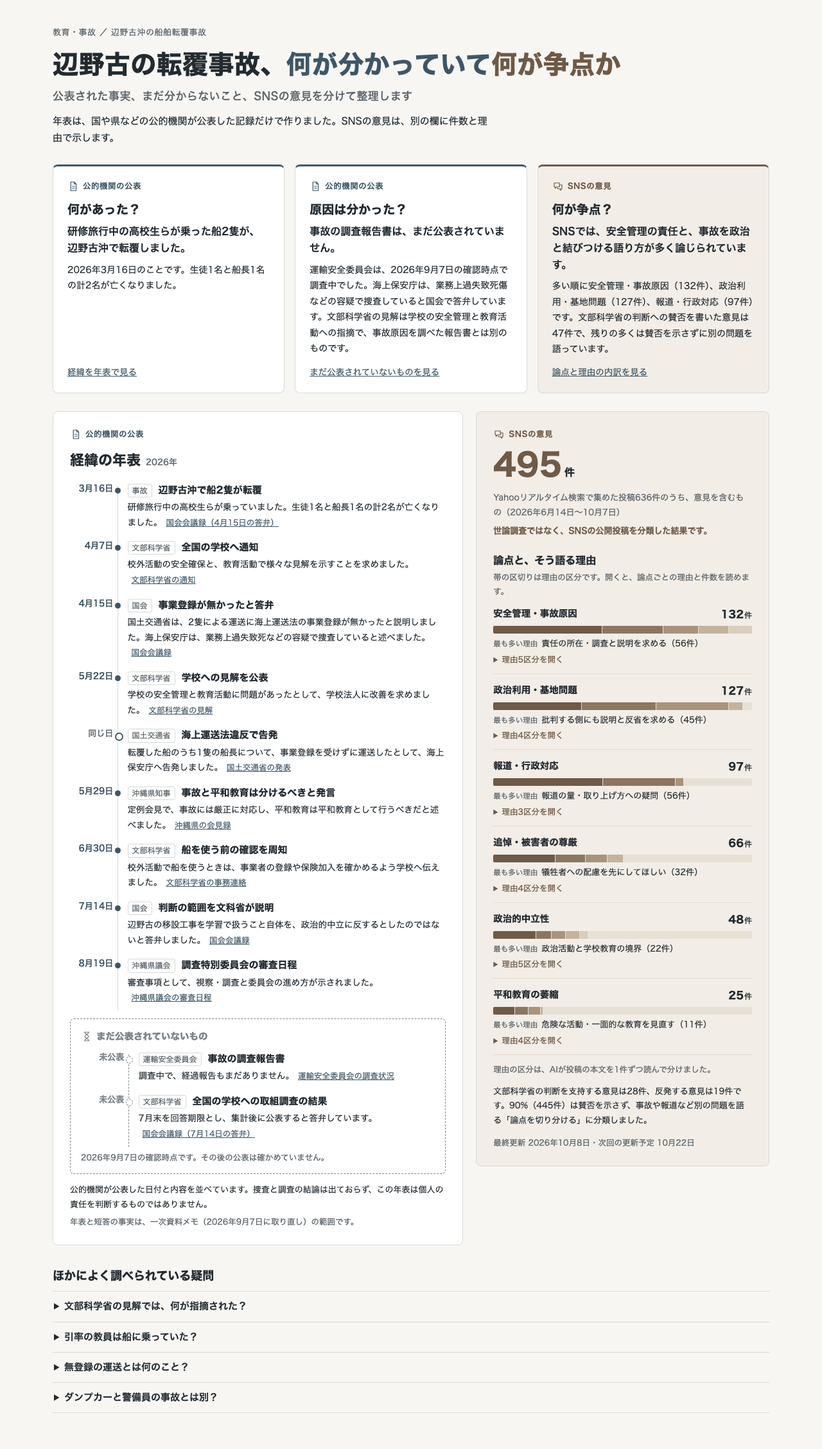
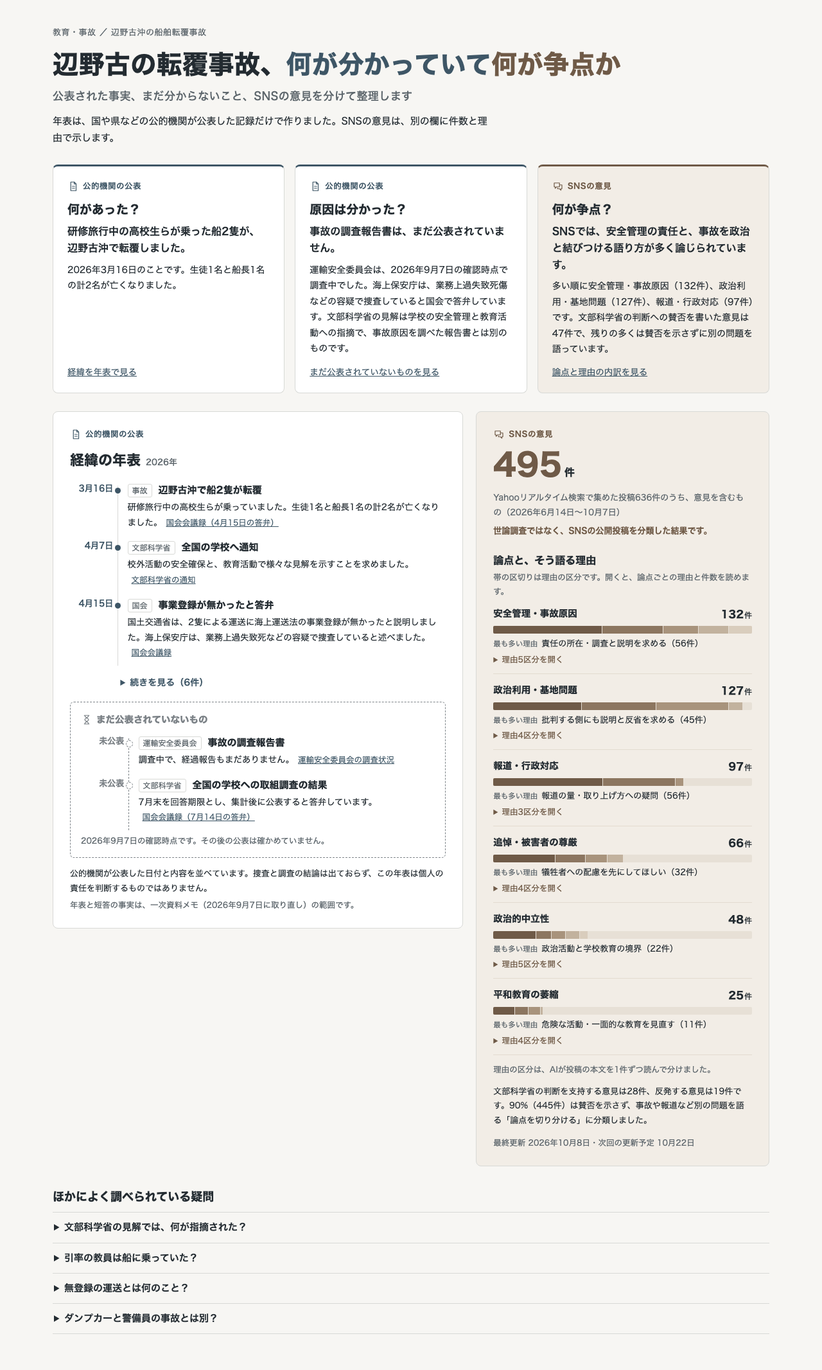
henoko-student-accident: 年表を開閉式に（オーナー指示）

diff --git a/quality/prototypes/henoko-student-accident-opening/index.html b/quality/prototypes/henoko-student-accident-opening/index.html
@@ -14,7 +14,7 @@
 <header class="hop-hero"><p class="hop-crumb">教育・事故 ／ 辺野古沖の船舶転覆事故</p><h1 class="hop-title"><span class="hop-phrase hop-tone--plain">辺野古の転覆事故、</span><span class="hop-phrase hop-tone--fact">何が分かっていて</span><span class="hop-phrase hop-tone--voice">何が争点か</span><span class="hop-sub">公表された事実、まだ分からないこと、SNSの意見を分けて整理します</span></h1><p class="hop-lead">年表は、国や県などの公的機関が公表した記録だけで作りました。SNSの意見は、別の欄に件数と理由で示します。</p></header>
 <section class="hop-answers" aria-label="検索で多い疑問に短く答える"><article class="hop-answer hop-zone--fact"><p class="hop-kind"><svg class="hop-picto hop-picto--fact" aria-hidden="true" viewBox="0 0 24 24" fill="none" stroke="currentColor" stroke-width="1.6" stroke-linecap="round" stroke-linejoin="round"><path d="M7 3h7l4 4v14H7Z"/><path d="M14 3v4h4M10 12h5M10 16h5"/></svg>公的機関の公表</p><h2>何があった？</h2><p class="hop-answer__short">研修旅行中の高校生らが乗った船2隻が、辺野古沖で転覆しました。</p><p class="hop-answer__body">2026年3月16日のことです。生徒1名と船長1名の計2名が亡くなりました。</p><a class="hop-more" href="#hop-timeline">経緯を年表で見る</a></article><article class="hop-answer hop-zone--fact"><p class="hop-kind"><svg class="hop-picto hop-picto--fact" aria-hidden="true" viewBox="0 0 24 24" fill="none" stroke="currentColor" stroke-width="1.6" stroke-linecap="round" stroke-linejoin="round"><path d="M7 3h7l4 4v14H7Z"/><path d="M14 3v4h4M10 12h5M10 16h5"/></svg>公的機関の公表</p><h2>原因は分かった？</h2><p class="hop-answer__short">事故の調査報告書は、まだ公表されていません。</p><p class="hop-answer__body">運輸安全委員会は、2026年9月7日の確認時点で調査中でした。海上保安庁は、業務上過失致死傷などの容疑で捜査していると国会で答弁しています。文部科学省の見解は学校の安全管理と教育活動への指摘で、事故原因を調べた報告書とは別のものです。</p><a class="hop-more" href="#hop-pending">まだ公表されていないものを見る</a></article><article class="hop-answer hop-zone--voice"><p class="hop-kind"><svg class="hop-picto hop-picto--voice" aria-hidden="true" viewBox="0 0 24 24" fill="none" stroke="currentColor" stroke-width="1.6" stroke-linecap="round" stroke-linejoin="round"><path d="M4 5h11v8H9l-3 3v-3H4Z"/><path d="M15 9h5v8h-2v3l-3-3h-4v-2"/></svg>SNSの意見</p><h2>何が争点？</h2><p class="hop-answer__short">SNSでは、安全管理の責任と、事故を政治と結びつける語り方が多く論じられています。</p><p class="hop-answer__body">多い順に安全管理・事故原因（132件）、政治利用・基地問題（127件）、報道・行政対応（97件）です。文部科学省の判断への賛否を書いた意見は47件で、残りの多くは賛否を示さずに別の問題を語っています。</p><a class="hop-more" href="#hop-count">論点と理由の内訳を見る</a></article></section>
 <div class="hop-split">
-<section class="hop-timeline hop-zone--fact" id="hop-timeline" aria-labelledby="hop-timeline-title"><header class="hop-panel__head"><p class="hop-kind"><svg class="hop-picto hop-picto--fact" aria-hidden="true" viewBox="0 0 24 24" fill="none" stroke="currentColor" stroke-width="1.6" stroke-linecap="round" stroke-linejoin="round"><path d="M7 3h7l4 4v14H7Z"/><path d="M14 3v4h4M10 12h5M10 16h5"/></svg>公的機関の公表</p><h2 id="hop-timeline-title">経緯の年表<small>2026年</small></h2></header><ol class="hop-events"><li class="hop-event"><time datetime="2026-03-16">3月16日</time><div class="hop-event__body"><p class="hop-event__head"><span class="hop-actor">事故</span><strong>辺野古沖で船2隻が転覆</strong></p><p class="hop-event__text">研修旅行中の高校生らが乗っていました。生徒1名と船長1名の計2名が亡くなりました。<a class="hop-src" href="https://kokkai.ndl.go.jp/txt/122104319X00520260415/14" target="_blank" rel="noopener noreferrer">国会会議録（4月15日の答弁）</a></p></div></li><li class="hop-event"><time datetime="2026-04-07">4月7日</time><div class="hop-event__body"><p class="hop-event__head"><span class="hop-actor">文部科学省</span><strong>全国の学校へ通知</strong></p><p class="hop-event__text">校外活動の安全確保と、教育活動で様々な見解を示すことを求めました。<a class="hop-src" href="https://www.mext.go.jp/a_menu/kenko/anzen/1417343_00052.htm" target="_blank" rel="noopener noreferrer">文部科学省の通知</a></p></div></li><li class="hop-event"><time datetime="2026-04-15">4月15日</time><div class="hop-event__body"><p class="hop-event__head"><span class="hop-actor">国会</span><strong>事業登録が無かったと答弁</strong></p><p class="hop-event__text">国土交通省は、2隻による運送に海上運送法の事業登録が無かったと説明しました。海上保安庁は、業務上過失致死などの容疑で捜査していると述べました。<a class="hop-src" href="https://kokkai.ndl.go.jp/txt/122104319X00520260415/15" target="_blank" rel="noopener noreferrer">国会会議録</a></p></div></li><li class="hop-event"><time datetime="2026-05-22">5月22日</time><div class="hop-event__body"><p class="hop-event__head"><span class="hop-actor">文部科学省</span><strong>学校への見解を公表</strong></p><p class="hop-event__text">学校の安全管理と教育活動に問題があったとして、学校法人に改善を求めました。<a class="hop-src" href="https://www.mext.go.jp/a_menu/shotou/seitoshidou/1302902_00005.htm" target="_blank" rel="noopener noreferrer">文部科学省の見解</a></p></div></li><li class="hop-event hop-event--same"><time datetime="2026-05-22">同じ日</time><div class="hop-event__body"><p class="hop-event__head"><span class="hop-actor">国土交通省</span><strong>海上運送法違反で告発</strong></p><p class="hop-event__text">転覆した船のうち1隻の船長について、事業登録を受けずに運送したとして、海上保安庁へ告発しました。<a class="hop-src" href="https://www.mlit.go.jp/report/press/kaiji03_hh_000224.html" target="_blank" rel="noopener noreferrer">国土交通省の発表</a></p></div></li><li class="hop-event"><time datetime="2026-05-29">5月29日</time><div class="hop-event__body"><p class="hop-event__head"><span class="hop-actor">沖縄県知事</span><strong>事故と平和教育は分けるべきと発言</strong></p><p class="hop-event__text">定例会見で、事故には厳正に対応し、平和教育は平和教育として行うべきだと述べました。<a class="hop-src" href="https://www.pref.okinawa.lg.jp/_res/projects/default_project/_page_/001/039/477/260529_kaiken.pdf" target="_blank" rel="noopener noreferrer">沖縄県の会見録</a></p></div></li><li class="hop-event"><time datetime="2026-06-30">6月30日</time><div class="hop-event__body"><p class="hop-event__head"><span class="hop-actor">文部科学省</span><strong>船を使う前の確認を周知</strong></p><p class="hop-event__text">校外活動で船を使うときは、事業者の登録や保険加入を確かめるよう学校へ伝えました。<a class="hop-src" href="https://www.mext.go.jp/a_menu/kenko/anzen/1417343_00062.htm" target="_blank" rel="noopener noreferrer">文部科学省の事務連絡</a></p></div></li><li class="hop-event"><time datetime="2026-07-14">7月14日</time><div class="hop-event__body"><p class="hop-event__head"><span class="hop-actor">国会</span><strong>判断の範囲を文科省が説明</strong></p><p class="hop-event__text">辺野古の移設工事を学習で扱うこと自体を、政治的中立に反するとしたのではないと答弁しました。<a class="hop-src" href="https://kokkai.ndl.go.jp/txt/122114601X01320260714/115" target="_blank" rel="noopener noreferrer">国会会議録</a></p></div></li><li class="hop-event"><time datetime="2026-08-19">8月19日</time><div class="hop-event__body"><p class="hop-event__head"><span class="hop-actor">沖縄県議会</span><strong>調査特別委員会の審査日程</strong></p><p class="hop-event__text">審査事項として、視察・調査と委員会の進め方が示されました。<a class="hop-src" href="https://www.pref.okinawa.lg.jp/_res/projects/default_project/_page_/001/039/367/r80819henokonittei.pdf" target="_blank" rel="noopener noreferrer">沖縄県議会の審査日程</a></p></div></li></ol><div class="hop-pending" id="hop-pending"><h3><svg class="hop-picto hop-picto--pending" aria-hidden="true" viewBox="0 0 24 24" fill="none" stroke="currentColor" stroke-width="1.6" stroke-linecap="round" stroke-linejoin="round"><path d="M7 3h10M7 21h10M8 3c0 5 8 6 8 9s-8 4-8 9M16 3c0 5-8 6-8 9s8 4 8 9"/></svg>まだ公表されていないもの</h3><ol class="hop-events"><li class="hop-event hop-event--pending"><span class="hop-when-pending">未公表</span><div class="hop-event__body"><p class="hop-event__head"><span class="hop-actor">運輸安全委員会</span><strong>事故の調査報告書</strong></p><p class="hop-event__text">調査中で、経過報告もまだありません。<a class="hop-src" href="https://jtsb.mlit.go.jp/jtsb/ship/detail2.php?id=17113" target="_blank" rel="noopener noreferrer">運輸安全委員会の調査状況</a></p></div></li><li class="hop-event hop-event--pending"><span class="hop-when-pending">未公表</span><div class="hop-event__body"><p class="hop-event__head"><span class="hop-actor">文部科学省</span><strong>全国の学校への取組調査の結果</strong></p><p class="hop-event__text">7月末を回答期限とし、集計後に公表すると答弁しています。<a class="hop-src" href="https://kokkai.ndl.go.jp/txt/122115104X01220260714/51" target="_blank" rel="noopener noreferrer">国会会議録（7月14日の答弁）</a></p></div></li></ol><p class="hop-pending__note">2026年9月7日の確認時点です。その後の公表は確かめていません。</p></div><p class="hop-panel__note">公的機関が公表した日付と内容を並べています。捜査と調査の結論は出ておらず、この年表は個人の責任を判断するものではありません。</p><p class="hop-checked">年表と短答の事実は、一次資料メモ（2026年9月7日に取り直し）の範囲です。</p></section>
+<section class="hop-timeline hop-zone--fact" id="hop-timeline" aria-labelledby="hop-timeline-title"><header class="hop-panel__head"><p class="hop-kind"><svg class="hop-picto hop-picto--fact" aria-hidden="true" viewBox="0 0 24 24" fill="none" stroke="currentColor" stroke-width="1.6" stroke-linecap="round" stroke-linejoin="round"><path d="M7 3h7l4 4v14H7Z"/><path d="M14 3v4h4M10 12h5M10 16h5"/></svg>公的機関の公表</p><h2 id="hop-timeline-title">経緯の年表<small>2026年</small></h2></header><ol class="hop-events"><li class="hop-event"><time datetime="2026-03-16">3月16日</time><div class="hop-event__body"><p class="hop-event__head"><span class="hop-actor">事故</span><strong>辺野古沖で船2隻が転覆</strong></p><p class="hop-event__text">研修旅行中の高校生らが乗っていました。生徒1名と船長1名の計2名が亡くなりました。<a class="hop-src" href="https://kokkai.ndl.go.jp/txt/122104319X00520260415/14" target="_blank" rel="noopener noreferrer">国会会議録（4月15日の答弁）</a></p></div></li><li class="hop-event"><time datetime="2026-04-07">4月7日</time><div class="hop-event__body"><p class="hop-event__head"><span class="hop-actor">文部科学省</span><strong>全国の学校へ通知</strong></p><p class="hop-event__text">校外活動の安全確保と、教育活動で様々な見解を示すことを求めました。<a class="hop-src" href="https://www.mext.go.jp/a_menu/kenko/anzen/1417343_00052.htm" target="_blank" rel="noopener noreferrer">文部科学省の通知</a></p></div></li><li class="hop-event"><time datetime="2026-04-15">4月15日</time><div class="hop-event__body"><p class="hop-event__head"><span class="hop-actor">国会</span><strong>事業登録が無かったと答弁</strong></p><p class="hop-event__text">国土交通省は、2隻による運送に海上運送法の事業登録が無かったと説明しました。海上保安庁は、業務上過失致死などの容疑で捜査していると述べました。<a class="hop-src" href="https://kokkai.ndl.go.jp/txt/122104319X00520260415/15" target="_blank" rel="noopener noreferrer">国会会議録</a></p></div></li></ol><details class="hop-more-events"><summary>続きを見る（6件）</summary><ol class="hop-events hop-events--rest"><li class="hop-event"><time datetime="2026-05-22">5月22日</time><div class="hop-event__body"><p class="hop-event__head"><span class="hop-actor">文部科学省</span><strong>学校への見解を公表</strong></p><p class="hop-event__text">学校の安全管理と教育活動に問題があったとして、学校法人に改善を求めました。<a class="hop-src" href="https://www.mext.go.jp/a_menu/shotou/seitoshidou/1302902_00005.htm" target="_blank" rel="noopener noreferrer">文部科学省の見解</a></p></div></li><li class="hop-event hop-event--same"><time datetime="2026-05-22">同じ日</time><div class="hop-event__body"><p class="hop-event__head"><span class="hop-actor">国土交通省</span><strong>海上運送法違反で告発</strong></p><p class="hop-event__text">転覆した船のうち1隻の船長について、事業登録を受けずに運送したとして、海上保安庁へ告発しました。<a class="hop-src" href="https://www.mlit.go.jp/report/press/kaiji03_hh_000224.html" target="_blank" rel="noopener noreferrer">国土交通省の発表</a></p></div></li><li class="hop-event"><time datetime="2026-05-29">5月29日</time><div class="hop-event__body"><p class="hop-event__head"><span class="hop-actor">沖縄県知事</span><strong>事故と平和教育は分けるべきと発言</strong></p><p class="hop-event__text">定例会見で、事故には厳正に対応し、平和教育は平和教育として行うべきだと述べました。<a class="hop-src" href="https://www.pref.okinawa.lg.jp/_res/projects/default_project/_page_/001/039/477/260529_kaiken.pdf" target="_blank" rel="noopener noreferrer">沖縄県の会見録</a></p></div></li><li class="hop-event"><time datetime="2026-06-30">6月30日</time><div class="hop-event__body"><p class="hop-event__head"><span class="hop-actor">文部科学省</span><strong>船を使う前の確認を周知</strong></p><p class="hop-event__text">校外活動で船を使うときは、事業者の登録や保険加入を確かめるよう学校へ伝えました。<a class="hop-src" href="https://www.mext.go.jp/a_menu/kenko/anzen/1417343_00062.htm" target="_blank" rel="noopener noreferrer">文部科学省の事務連絡</a></p></div></li><li class="hop-event"><time datetime="2026-07-14">7月14日</time><div class="hop-event__body"><p class="hop-event__head"><span class="hop-actor">国会</span><strong>判断の範囲を文科省が説明</strong></p><p class="hop-event__text">辺野古の移設工事を学習で扱うこと自体を、政治的中立に反するとしたのではないと答弁しました。<a class="hop-src" href="https://kokkai.ndl.go.jp/txt/122114601X01320260714/115" target="_blank" rel="noopener noreferrer">国会会議録</a></p></div></li><li class="hop-event"><time datetime="2026-08-19">8月19日</time><div class="hop-event__body"><p class="hop-event__head"><span class="hop-actor">沖縄県議会</span><strong>調査特別委員会の審査日程</strong></p><p class="hop-event__text">審査事項として、視察・調査と委員会の進め方が示されました。<a class="hop-src" href="https://www.pref.okinawa.lg.jp/_res/projects/default_project/_page_/001/039/367/r80819henokonittei.pdf" target="_blank" rel="noopener noreferrer">沖縄県議会の審査日程</a></p></div></li></ol></details><div class="hop-pending" id="hop-pending"><h3><svg class="hop-picto hop-picto--pending" aria-hidden="true" viewBox="0 0 24 24" fill="none" stroke="currentColor" stroke-width="1.6" stroke-linecap="round" stroke-linejoin="round"><path d="M7 3h10M7 21h10M8 3c0 5 8 6 8 9s-8 4-8 9M16 3c0 5-8 6-8 9s8 4 8 9"/></svg>まだ公表されていないもの</h3><ol class="hop-events"><li class="hop-event hop-event--pending"><span class="hop-when-pending">未公表</span><div class="hop-event__body"><p class="hop-event__head"><span class="hop-actor">運輸安全委員会</span><strong>事故の調査報告書</strong></p><p class="hop-event__text">調査中で、経過報告もまだありません。<a class="hop-src" href="https://jtsb.mlit.go.jp/jtsb/ship/detail2.php?id=17113" target="_blank" rel="noopener noreferrer">運輸安全委員会の調査状況</a></p></div></li><li class="hop-event hop-event--pending"><span class="hop-when-pending">未公表</span><div class="hop-event__body"><p class="hop-event__head"><span class="hop-actor">文部科学省</span><strong>全国の学校への取組調査の結果</strong></p><p class="hop-event__text">7月末を回答期限とし、集計後に公表すると答弁しています。<a class="hop-src" href="https://kokkai.ndl.go.jp/txt/122115104X01220260714/51" target="_blank" rel="noopener noreferrer">国会会議録（7月14日の答弁）</a></p></div></li></ol><p class="hop-pending__note">2026年9月7日の確認時点です。その後の公表は確かめていません。</p></div><p class="hop-panel__note">公的機関が公表した日付と内容を並べています。捜査と調査の結論は出ておらず、この年表は個人の責任を判断するものではありません。</p><p class="hop-checked">年表と短答の事実は、一次資料メモ（2026年9月7日に取り直し）の範囲です。</p></section>
 <section class="hop-count hop-zone--voice" id="hop-count" aria-labelledby="hop-count-title"><header class="hop-panel__head"><p class="hop-kind"><svg class="hop-picto hop-picto--voice" aria-hidden="true" viewBox="0 0 24 24" fill="none" stroke="currentColor" stroke-width="1.6" stroke-linecap="round" stroke-linejoin="round"><path d="M4 5h11v8H9l-3 3v-3H4Z"/><path d="M15 9h5v8h-2v3l-3-3h-4v-2"/></svg>SNSの意見</p><h2 id="hop-count-title" class="hop-count__num"><strong>495</strong><span>件</span></h2></header><p class="hop-count__caption">Yahooリアルタイム検索で集めた投稿636件のうち、意見を含むもの（2026年6月14日〜10月7日）</p><p class="hop-count__poll">世論調査ではなく、SNSの公開投稿を分類した結果です。</p><h3 class="hop-count__issues-title">論点と、そう語る理由</h3><p class="hop-count__hint">帯の区切りは理由の区分です。開くと、論点ごとの理由と件数を読めます。</p><ol class="hop-issues"><li class="hop-issue"><p class="hop-issue__head"><strong>安全管理・事故原因</strong><b>132<small>件</small></b></p><div class="hop-issue__track" aria-hidden="true"><div class="hop-issue__bar" style="--w:100.00%"><span style="--w:42.42%;--c:#6f5a47"></span><span style="--w:23.48%;--c:#8c7660"></span><span style="--w:13.64%;--c:#a8937c"></span><span style="--w:11.36%;--c:#c2b29e"></span><span style="--w:9.09%;--c:#d9cdbd"></span></div></div><p class="hop-issue__top"><span>最も多い理由</span>責任の所在・調査と説明を求める（56件）</p><details class="hop-reasons"><summary>理由5区分を開く</summary><ul><li><span class="hop-swatch" style="--c:#6f5a47" aria-hidden="true"></span>責任の所在・調査と説明を求める<b>56件</b></li><li><span class="hop-swatch" style="--c:#8c7660" aria-hidden="true"></span>学校の計画・引率・生徒への説明<b>31件</b></li><li><span class="hop-swatch" style="--c:#a8937c" aria-hidden="true"></span>船の選定・運航判断・契約<b>18件</b></li><li><span class="hop-swatch" style="--c:#c2b29e" aria-hidden="true"></span>再発防止と安全確認を優先する<b>15件</b></li><li><span class="hop-swatch" style="--c:#d9cdbd" aria-hidden="true"></span>活動の目的より安全を優先してほしい<b>12件</b></li></ul></details></li><li class="hop-issue"><p class="hop-issue__head"><strong>政治利用・基地問題</strong><b>127<small>件</small></b></p><div class="hop-issue__track" aria-hidden="true"><div class="hop-issue__bar" style="--w:96.21%"><span style="--w:35.43%;--c:#6f5a47"></span><span style="--w:29.92%;--c:#8c7660"></span><span style="--w:29.13%;--c:#a8937c"></span><span style="--w:5.51%;--c:#c2b29e"></span></div></div><p class="hop-issue__top"><span>最も多い理由</span>批判する側にも説明と反省を求める（45件）</p><details class="hop-reasons"><summary>理由4区分を開く</summary><ul><li><span class="hop-swatch" style="--c:#6f5a47" aria-hidden="true"></span>批判する側にも説明と反省を求める<b>45件</b></li><li><span class="hop-swatch" style="--c:#8c7660" aria-hidden="true"></span>事故対応を選挙や政治家の評価につなげる<b>38件</b></li><li><span class="hop-swatch" style="--c:#a8937c" aria-hidden="true"></span>活動団体・政党・教育機関への批判と関係<b>37件</b></li><li><span class="hop-swatch" style="--c:#c2b29e" aria-hidden="true"></span>基地政策・反対運動の是非<b>7件</b></li></ul></details></li><li class="hop-issue"><p class="hop-issue__head"><strong>報道・行政対応</strong><b>97<small>件</small></b></p><div class="hop-issue__track" aria-hidden="true"><div class="hop-issue__bar" style="--w:73.48%"><span style="--w:57.73%;--c:#6f5a47"></span><span style="--w:38.14%;--c:#8c7660"></span><span style="--w:4.12%;--c:#a8937c"></span></div></div><p class="hop-issue__top"><span>最も多い理由</span>報道の量・取り上げ方への疑問（56件）</p><details class="hop-reasons"><summary>理由3区分を開く</summary><ul><li><span class="hop-swatch" style="--c:#6f5a47" aria-hidden="true"></span>報道の量・取り上げ方への疑問<b>56件</b></li><li><span class="hop-swatch" style="--c:#8c7660" aria-hidden="true"></span>行政・政党の説明と調査<b>37件</b></li><li><span class="hop-swatch" style="--c:#a8937c" aria-hidden="true"></span>会見や遺族の記録への受け止め<b>4件</b></li></ul></details></li><li class="hop-issue"><p class="hop-issue__head"><strong>追悼・被害者の尊厳</strong><b>66<small>件</small></b></p><div class="hop-issue__track" aria-hidden="true"><div class="hop-issue__bar" style="--w:50.00%"><span style="--w:48.48%;--c:#6f5a47"></span><span style="--w:22.73%;--c:#8c7660"></span><span style="--w:16.67%;--c:#a8937c"></span><span style="--w:12.12%;--c:#c2b29e"></span></div></div><p class="hop-issue__top"><span>最も多い理由</span>犠牲者への配慮を先にしてほしい（32件）</p><details class="hop-reasons"><summary>理由4区分を開く</summary><ul><li><span class="hop-swatch" style="--c:#6f5a47" aria-hidden="true"></span>犠牲者への配慮を先にしてほしい<b>32件</b></li><li><span class="hop-swatch" style="--c:#8c7660" aria-hidden="true"></span>追悼や謝罪の時期・場所・対応<b>15件</b></li><li><span class="hop-swatch" style="--c:#a8937c" aria-hidden="true"></span>慰霊の場と政治的抗議を分ける<b>11件</b></li><li><span class="hop-swatch" style="--c:#c2b29e" aria-hidden="true"></span>命を悼み、遺族や生徒の立場を考える<b>8件</b></li></ul></details></li><li class="hop-issue"><p class="hop-issue__head"><strong>政治的中立性</strong><b>48<small>件</small></b></p><div class="hop-issue__track" aria-hidden="true"><div class="hop-issue__bar" style="--w:36.36%"><span style="--w:45.83%;--c:#6f5a47"></span><span style="--w:16.67%;--c:#8c7660"></span><span style="--w:14.58%;--c:#a8937c"></span><span style="--w:14.58%;--c:#c2b29e"></span><span style="--w:8.33%;--c:#d9cdbd"></span></div></div><p class="hop-issue__top"><span>最も多い理由</span>政治活動と学校教育の境界（22件）</p><details class="hop-reasons"><summary>理由5区分を開く</summary><ul><li><span class="hop-swatch" style="--c:#6f5a47" aria-hidden="true"></span>政治活動と学校教育の境界<b>22件</b></li><li><span class="hop-swatch" style="--c:#8c7660" aria-hidden="true"></span>比較する場面でも同じ基準を求める<b>8件</b></li><li><span class="hop-swatch" style="--c:#a8937c" aria-hidden="true"></span>教組・宗教団体と教育の関係<b>7件</b></li><li><span class="hop-swatch" style="--c:#c2b29e" aria-hidden="true"></span>教育論の前に学校と運動の責任を問う<b>7件</b></li><li><span class="hop-swatch" style="--c:#d9cdbd" aria-hidden="true"></span>国の教育内容への介入を疑問視する<b>4件</b></li></ul></details></li><li class="hop-issue"><p class="hop-issue__head"><strong>平和教育の萎縮</strong><b>25<small>件</small></b></p><div class="hop-issue__track" aria-hidden="true"><div class="hop-issue__bar" style="--w:18.94%"><span style="--w:44.00%;--c:#6f5a47"></span><span style="--w:28.00%;--c:#8c7660"></span><span style="--w:24.00%;--c:#a8937c"></span><span style="--w:4.00%;--c:#c2b29e"></span></div></div><p class="hop-issue__top"><span>最も多い理由</span>危険な活動・一面的な教育を見直す（11件）</p><details class="hop-reasons"><summary>理由4区分を開く</summary><ul><li><span class="hop-swatch" style="--c:#6f5a47" aria-hidden="true"></span>危険な活動・一面的な教育を見直す<b>11件</b></li><li><span class="hop-swatch" style="--c:#8c7660" aria-hidden="true"></span>学ぶ機会・権利と生徒の自主性<b>7件</b></li><li><span class="hop-swatch" style="--c:#a8937c" aria-hidden="true"></span>教育の自由と国家の介入を考える<b>6件</b></li><li><span class="hop-swatch" style="--c:#c2b29e" aria-hidden="true"></span>政治家に教育のあり方を問う<b>1件</b></li></ul></details></li></ol><p class="hop-count__note">理由の区分は、AIが投稿の本文を1件ずつ読んで分けました。</p><p class="hop-count__stance">文部科学省の判断を支持する意見は28件、反発する意見は19件です。90%（445件）は賛否を示さず、事故や報道など別の問題を語る「論点を切り分ける」に分類しました。</p><p class="hop-count__updated">最終更新 2026年10月8日・次回の更新予定 10月22日</p></section>
 </div>
 <section class="hop-faq" aria-labelledby="hop-faq-title"><h2 id="hop-faq-title">ほかによく調べられている疑問</h2><details class="hop-faq__item"><summary>文部科学省の見解では、何が指摘された？</summary><p>事前の下見をしていなかったこと、当日の波浪注意報を確認していなかったことなど、学校の安全管理が指摘されました。個人の刑事責任を判断したものではありません。<a class="hop-src" href="https://www.mext.go.jp/a_menu/shotou/seitoshidou/1302902_00005.htm" target="_blank" rel="noopener noreferrer">文部科学省の見解</a></p></details><details class="hop-faq__item"><summary>引率の教員は船に乗っていた？</summary><p>文部科学省の見解には、転覆時に引率教員は同行していなかったと書かれています。2隻の船に対し、配置された引率教員は1名でした。<a class="hop-src" href="https://www.mext.go.jp/a_menu/shotou/seitoshidou/1302902_00005.htm" target="_blank" rel="noopener noreferrer">文部科学省の見解</a></p></details><details class="hop-faq__item"><summary>無登録の運送とは何のこと？</summary><p>人を運ぶ事業として行う場合は、海上運送法の事業登録が必要です。国土交通省は、学校の依頼で繰り返し生徒らを運び、謝礼を受けていたことから、登録を受けずに運送したと判断しました。事故原因の認定とは別の手続きです。<a class="hop-src" href="https://www.mlit.go.jp/report/press/kaiji03_hh_000224.html" target="_blank" rel="noopener noreferrer">国土交通省の発表</a></p></details><details class="hop-faq__item"><summary>ダンプカーと警備員の事故とは別？</summary><p>別の事故です。このページは2026年3月の辺野古沖の船舶転覆事故を扱い、2024年に安和桟橋付近で起きた事故とは混同しません。</p></details></section>

diff --git a/quality/prototypes/henoko-student-accident-opening/opening-fragment.html b/quality/prototypes/henoko-student-accident-opening/opening-fragment.html
@@ -3,7 +3,7 @@
 <header class="hop-hero"><p class="hop-crumb">教育・事故 ／ 辺野古沖の船舶転覆事故</p><h1 class="hop-title"><span class="hop-phrase hop-tone--plain">辺野古の転覆事故、</span><span class="hop-phrase hop-tone--fact">何が分かっていて</span><span class="hop-phrase hop-tone--voice">何が争点か</span><span class="hop-sub">公表された事実、まだ分からないこと、SNSの意見を分けて整理します</span></h1><p class="hop-lead">年表は、国や県などの公的機関が公表した記録だけで作りました。SNSの意見は、別の欄に件数と理由で示します。</p></header>
 <section class="hop-answers" aria-label="検索で多い疑問に短く答える"><article class="hop-answer hop-zone--fact"><p class="hop-kind"><svg class="hop-picto hop-picto--fact" aria-hidden="true" viewBox="0 0 24 24" fill="none" stroke="currentColor" stroke-width="1.6" stroke-linecap="round" stroke-linejoin="round"><path d="M7 3h7l4 4v14H7Z"/><path d="M14 3v4h4M10 12h5M10 16h5"/></svg>公的機関の公表</p><h2>何があった？</h2><p class="hop-answer__short">研修旅行中の高校生らが乗った船2隻が、辺野古沖で転覆しました。</p><p class="hop-answer__body">2026年3月16日のことです。生徒1名と船長1名の計2名が亡くなりました。</p><a class="hop-more" href="#hop-timeline">経緯を年表で見る</a></article><article class="hop-answer hop-zone--fact"><p class="hop-kind"><svg class="hop-picto hop-picto--fact" aria-hidden="true" viewBox="0 0 24 24" fill="none" stroke="currentColor" stroke-width="1.6" stroke-linecap="round" stroke-linejoin="round"><path d="M7 3h7l4 4v14H7Z"/><path d="M14 3v4h4M10 12h5M10 16h5"/></svg>公的機関の公表</p><h2>原因は分かった？</h2><p class="hop-answer__short">事故の調査報告書は、まだ公表されていません。</p><p class="hop-answer__body">運輸安全委員会は、2026年9月7日の確認時点で調査中でした。海上保安庁は、業務上過失致死傷などの容疑で捜査していると国会で答弁しています。文部科学省の見解は学校の安全管理と教育活動への指摘で、事故原因を調べた報告書とは別のものです。</p><a class="hop-more" href="#hop-pending">まだ公表されていないものを見る</a></article><article class="hop-answer hop-zone--voice"><p class="hop-kind"><svg class="hop-picto hop-picto--voice" aria-hidden="true" viewBox="0 0 24 24" fill="none" stroke="currentColor" stroke-width="1.6" stroke-linecap="round" stroke-linejoin="round"><path d="M4 5h11v8H9l-3 3v-3H4Z"/><path d="M15 9h5v8h-2v3l-3-3h-4v-2"/></svg>SNSの意見</p><h2>何が争点？</h2><p class="hop-answer__short">SNSでは、安全管理の責任と、事故を政治と結びつける語り方が多く論じられています。</p><p class="hop-answer__body">多い順に安全管理・事故原因（132件）、政治利用・基地問題（127件）、報道・行政対応（97件）です。文部科学省の判断への賛否を書いた意見は47件で、残りの多くは賛否を示さずに別の問題を語っています。</p><a class="hop-more" href="#hop-count">論点と理由の内訳を見る</a></article></section>
 <div class="hop-split">
-<section class="hop-timeline hop-zone--fact" id="hop-timeline" aria-labelledby="hop-timeline-title"><header class="hop-panel__head"><p class="hop-kind"><svg class="hop-picto hop-picto--fact" aria-hidden="true" viewBox="0 0 24 24" fill="none" stroke="currentColor" stroke-width="1.6" stroke-linecap="round" stroke-linejoin="round"><path d="M7 3h7l4 4v14H7Z"/><path d="M14 3v4h4M10 12h5M10 16h5"/></svg>公的機関の公表</p><h2 id="hop-timeline-title">経緯の年表<small>2026年</small></h2></header><ol class="hop-events"><li class="hop-event"><time datetime="2026-03-16">3月16日</time><div class="hop-event__body"><p class="hop-event__head"><span class="hop-actor">事故</span><strong>辺野古沖で船2隻が転覆</strong></p><p class="hop-event__text">研修旅行中の高校生らが乗っていました。生徒1名と船長1名の計2名が亡くなりました。<a class="hop-src" href="https://kokkai.ndl.go.jp/txt/122104319X00520260415/14" target="_blank" rel="noopener noreferrer">国会会議録（4月15日の答弁）</a></p></div></li><li class="hop-event"><time datetime="2026-04-07">4月7日</time><div class="hop-event__body"><p class="hop-event__head"><span class="hop-actor">文部科学省</span><strong>全国の学校へ通知</strong></p><p class="hop-event__text">校外活動の安全確保と、教育活動で様々な見解を示すことを求めました。<a class="hop-src" href="https://www.mext.go.jp/a_menu/kenko/anzen/1417343_00052.htm" target="_blank" rel="noopener noreferrer">文部科学省の通知</a></p></div></li><li class="hop-event"><time datetime="2026-04-15">4月15日</time><div class="hop-event__body"><p class="hop-event__head"><span class="hop-actor">国会</span><strong>事業登録が無かったと答弁</strong></p><p class="hop-event__text">国土交通省は、2隻による運送に海上運送法の事業登録が無かったと説明しました。海上保安庁は、業務上過失致死などの容疑で捜査していると述べました。<a class="hop-src" href="https://kokkai.ndl.go.jp/txt/122104319X00520260415/15" target="_blank" rel="noopener noreferrer">国会会議録</a></p></div></li><li class="hop-event"><time datetime="2026-05-22">5月22日</time><div class="hop-event__body"><p class="hop-event__head"><span class="hop-actor">文部科学省</span><strong>学校への見解を公表</strong></p><p class="hop-event__text">学校の安全管理と教育活動に問題があったとして、学校法人に改善を求めました。<a class="hop-src" href="https://www.mext.go.jp/a_menu/shotou/seitoshidou/1302902_00005.htm" target="_blank" rel="noopener noreferrer">文部科学省の見解</a></p></div></li><li class="hop-event hop-event--same"><time datetime="2026-05-22">同じ日</time><div class="hop-event__body"><p class="hop-event__head"><span class="hop-actor">国土交通省</span><strong>海上運送法違反で告発</strong></p><p class="hop-event__text">転覆した船のうち1隻の船長について、事業登録を受けずに運送したとして、海上保安庁へ告発しました。<a class="hop-src" href="https://www.mlit.go.jp/report/press/kaiji03_hh_000224.html" target="_blank" rel="noopener noreferrer">国土交通省の発表</a></p></div></li><li class="hop-event"><time datetime="2026-05-29">5月29日</time><div class="hop-event__body"><p class="hop-event__head"><span class="hop-actor">沖縄県知事</span><strong>事故と平和教育は分けるべきと発言</strong></p><p class="hop-event__text">定例会見で、事故には厳正に対応し、平和教育は平和教育として行うべきだと述べました。<a class="hop-src" href="https://www.pref.okinawa.lg.jp/_res/projects/default_project/_page_/001/039/477/260529_kaiken.pdf" target="_blank" rel="noopener noreferrer">沖縄県の会見録</a></p></div></li><li class="hop-event"><time datetime="2026-06-30">6月30日</time><div class="hop-event__body"><p class="hop-event__head"><span class="hop-actor">文部科学省</span><strong>船を使う前の確認を周知</strong></p><p class="hop-event__text">校外活動で船を使うときは、事業者の登録や保険加入を確かめるよう学校へ伝えました。<a class="hop-src" href="https://www.mext.go.jp/a_menu/kenko/anzen/1417343_00062.htm" target="_blank" rel="noopener noreferrer">文部科学省の事務連絡</a></p></div></li><li class="hop-event"><time datetime="2026-07-14">7月14日</time><div class="hop-event__body"><p class="hop-event__head"><span class="hop-actor">国会</span><strong>判断の範囲を文科省が説明</strong></p><p class="hop-event__text">辺野古の移設工事を学習で扱うこと自体を、政治的中立に反するとしたのではないと答弁しました。<a class="hop-src" href="https://kokkai.ndl.go.jp/txt/122114601X01320260714/115" target="_blank" rel="noopener noreferrer">国会会議録</a></p></div></li><li class="hop-event"><time datetime="2026-08-19">8月19日</time><div class="hop-event__body"><p class="hop-event__head"><span class="hop-actor">沖縄県議会</span><strong>調査特別委員会の審査日程</strong></p><p class="hop-event__text">審査事項として、視察・調査と委員会の進め方が示されました。<a class="hop-src" href="https://www.pref.okinawa.lg.jp/_res/projects/default_project/_page_/001/039/367/r80819henokonittei.pdf" target="_blank" rel="noopener noreferrer">沖縄県議会の審査日程</a></p></div></li></ol><div class="hop-pending" id="hop-pending"><h3><svg class="hop-picto hop-picto--pending" aria-hidden="true" viewBox="0 0 24 24" fill="none" stroke="currentColor" stroke-width="1.6" stroke-linecap="round" stroke-linejoin="round"><path d="M7 3h10M7 21h10M8 3c0 5 8 6 8 9s-8 4-8 9M16 3c0 5-8 6-8 9s8 4 8 9"/></svg>まだ公表されていないもの</h3><ol class="hop-events"><li class="hop-event hop-event--pending"><span class="hop-when-pending">未公表</span><div class="hop-event__body"><p class="hop-event__head"><span class="hop-actor">運輸安全委員会</span><strong>事故の調査報告書</strong></p><p class="hop-event__text">調査中で、経過報告もまだありません。<a class="hop-src" href="https://jtsb.mlit.go.jp/jtsb/ship/detail2.php?id=17113" target="_blank" rel="noopener noreferrer">運輸安全委員会の調査状況</a></p></div></li><li class="hop-event hop-event--pending"><span class="hop-when-pending">未公表</span><div class="hop-event__body"><p class="hop-event__head"><span class="hop-actor">文部科学省</span><strong>全国の学校への取組調査の結果</strong></p><p class="hop-event__text">7月末を回答期限とし、集計後に公表すると答弁しています。<a class="hop-src" href="https://kokkai.ndl.go.jp/txt/122115104X01220260714/51" target="_blank" rel="noopener noreferrer">国会会議録（7月14日の答弁）</a></p></div></li></ol><p class="hop-pending__note">2026年9月7日の確認時点です。その後の公表は確かめていません。</p></div><p class="hop-panel__note">公的機関が公表した日付と内容を並べています。捜査と調査の結論は出ておらず、この年表は個人の責任を判断するものではありません。</p><p class="hop-checked">年表と短答の事実は、一次資料メモ（2026年9月7日に取り直し）の範囲です。</p></section>
+<section class="hop-timeline hop-zone--fact" id="hop-timeline" aria-labelledby="hop-timeline-title"><header class="hop-panel__head"><p class="hop-kind"><svg class="hop-picto hop-picto--fact" aria-hidden="true" viewBox="0 0 24 24" fill="none" stroke="currentColor" stroke-width="1.6" stroke-linecap="round" stroke-linejoin="round"><path d="M7 3h7l4 4v14H7Z"/><path d="M14 3v4h4M10 12h5M10 16h5"/></svg>公的機関の公表</p><h2 id="hop-timeline-title">経緯の年表<small>2026年</small></h2></header><ol class="hop-events"><li class="hop-event"><time datetime="2026-03-16">3月16日</time><div class="hop-event__body"><p class="hop-event__head"><span class="hop-actor">事故</span><strong>辺野古沖で船2隻が転覆</strong></p><p class="hop-event__text">研修旅行中の高校生らが乗っていました。生徒1名と船長1名の計2名が亡くなりました。<a class="hop-src" href="https://kokkai.ndl.go.jp/txt/122104319X00520260415/14" target="_blank" rel="noopener noreferrer">国会会議録（4月15日の答弁）</a></p></div></li><li class="hop-event"><time datetime="2026-04-07">4月7日</time><div class="hop-event__body"><p class="hop-event__head"><span class="hop-actor">文部科学省</span><strong>全国の学校へ通知</strong></p><p class="hop-event__text">校外活動の安全確保と、教育活動で様々な見解を示すことを求めました。<a class="hop-src" href="https://www.mext.go.jp/a_menu/kenko/anzen/1417343_00052.htm" target="_blank" rel="noopener noreferrer">文部科学省の通知</a></p></div></li><li class="hop-event"><time datetime="2026-04-15">4月15日</time><div class="hop-event__body"><p class="hop-event__head"><span class="hop-actor">国会</span><strong>事業登録が無かったと答弁</strong></p><p class="hop-event__text">国土交通省は、2隻による運送に海上運送法の事業登録が無かったと説明しました。海上保安庁は、業務上過失致死などの容疑で捜査していると述べました。<a class="hop-src" href="https://kokkai.ndl.go.jp/txt/122104319X00520260415/15" target="_blank" rel="noopener noreferrer">国会会議録</a></p></div></li></ol><details class="hop-more-events"><summary>続きを見る（6件）</summary><ol class="hop-events hop-events--rest"><li class="hop-event"><time datetime="2026-05-22">5月22日</time><div class="hop-event__body"><p class="hop-event__head"><span class="hop-actor">文部科学省</span><strong>学校への見解を公表</strong></p><p class="hop-event__text">学校の安全管理と教育活動に問題があったとして、学校法人に改善を求めました。<a class="hop-src" href="https://www.mext.go.jp/a_menu/shotou/seitoshidou/1302902_00005.htm" target="_blank" rel="noopener noreferrer">文部科学省の見解</a></p></div></li><li class="hop-event hop-event--same"><time datetime="2026-05-22">同じ日</time><div class="hop-event__body"><p class="hop-event__head"><span class="hop-actor">国土交通省</span><strong>海上運送法違反で告発</strong></p><p class="hop-event__text">転覆した船のうち1隻の船長について、事業登録を受けずに運送したとして、海上保安庁へ告発しました。<a class="hop-src" href="https://www.mlit.go.jp/report/press/kaiji03_hh_000224.html" target="_blank" rel="noopener noreferrer">国土交通省の発表</a></p></div></li><li class="hop-event"><time datetime="2026-05-29">5月29日</time><div class="hop-event__body"><p class="hop-event__head"><span class="hop-actor">沖縄県知事</span><strong>事故と平和教育は分けるべきと発言</strong></p><p class="hop-event__text">定例会見で、事故には厳正に対応し、平和教育は平和教育として行うべきだと述べました。<a class="hop-src" href="https://www.pref.okinawa.lg.jp/_res/projects/default_project/_page_/001/039/477/260529_kaiken.pdf" target="_blank" rel="noopener noreferrer">沖縄県の会見録</a></p></div></li><li class="hop-event"><time datetime="2026-06-30">6月30日</time><div class="hop-event__body"><p class="hop-event__head"><span class="hop-actor">文部科学省</span><strong>船を使う前の確認を周知</strong></p><p class="hop-event__text">校外活動で船を使うときは、事業者の登録や保険加入を確かめるよう学校へ伝えました。<a class="hop-src" href="https://www.mext.go.jp/a_menu/kenko/anzen/1417343_00062.htm" target="_blank" rel="noopener noreferrer">文部科学省の事務連絡</a></p></div></li><li class="hop-event"><time datetime="2026-07-14">7月14日</time><div class="hop-event__body"><p class="hop-event__head"><span class="hop-actor">国会</span><strong>判断の範囲を文科省が説明</strong></p><p class="hop-event__text">辺野古の移設工事を学習で扱うこと自体を、政治的中立に反するとしたのではないと答弁しました。<a class="hop-src" href="https://kokkai.ndl.go.jp/txt/122114601X01320260714/115" target="_blank" rel="noopener noreferrer">国会会議録</a></p></div></li><li class="hop-event"><time datetime="2026-08-19">8月19日</time><div class="hop-event__body"><p class="hop-event__head"><span class="hop-actor">沖縄県議会</span><strong>調査特別委員会の審査日程</strong></p><p class="hop-event__text">審査事項として、視察・調査と委員会の進め方が示されました。<a class="hop-src" href="https://www.pref.okinawa.lg.jp/_res/projects/default_project/_page_/001/039/367/r80819henokonittei.pdf" target="_blank" rel="noopener noreferrer">沖縄県議会の審査日程</a></p></div></li></ol></details><div class="hop-pending" id="hop-pending"><h3><svg class="hop-picto hop-picto--pending" aria-hidden="true" viewBox="0 0 24 24" fill="none" stroke="currentColor" stroke-width="1.6" stroke-linecap="round" stroke-linejoin="round"><path d="M7 3h10M7 21h10M8 3c0 5 8 6 8 9s-8 4-8 9M16 3c0 5-8 6-8 9s8 4 8 9"/></svg>まだ公表されていないもの</h3><ol class="hop-events"><li class="hop-event hop-event--pending"><span class="hop-when-pending">未公表</span><div class="hop-event__body"><p class="hop-event__head"><span class="hop-actor">運輸安全委員会</span><strong>事故の調査報告書</strong></p><p class="hop-event__text">調査中で、経過報告もまだありません。<a class="hop-src" href="https://jtsb.mlit.go.jp/jtsb/ship/detail2.php?id=17113" target="_blank" rel="noopener noreferrer">運輸安全委員会の調査状況</a></p></div></li><li class="hop-event hop-event--pending"><span class="hop-when-pending">未公表</span><div class="hop-event__body"><p class="hop-event__head"><span class="hop-actor">文部科学省</span><strong>全国の学校への取組調査の結果</strong></p><p class="hop-event__text">7月末を回答期限とし、集計後に公表すると答弁しています。<a class="hop-src" href="https://kokkai.ndl.go.jp/txt/122115104X01220260714/51" target="_blank" rel="noopener noreferrer">国会会議録（7月14日の答弁）</a></p></div></li></ol><p class="hop-pending__note">2026年9月7日の確認時点です。その後の公表は確かめていません。</p></div><p class="hop-panel__note">公的機関が公表した日付と内容を並べています。捜査と調査の結論は出ておらず、この年表は個人の責任を判断するものではありません。</p><p class="hop-checked">年表と短答の事実は、一次資料メモ（2026年9月7日に取り直し）の範囲です。</p></section>
 <section class="hop-count hop-zone--voice" id="hop-count" aria-labelledby="hop-count-title"><header class="hop-panel__head"><p class="hop-kind"><svg class="hop-picto hop-picto--voice" aria-hidden="true" viewBox="0 0 24 24" fill="none" stroke="currentColor" stroke-width="1.6" stroke-linecap="round" stroke-linejoin="round"><path d="M4 5h11v8H9l-3 3v-3H4Z"/><path d="M15 9h5v8h-2v3l-3-3h-4v-2"/></svg>SNSの意見</p><h2 id="hop-count-title" class="hop-count__num"><strong>495</strong><span>件</span></h2></header><p class="hop-count__caption">Yahooリアルタイム検索で集めた投稿636件のうち、意見を含むもの（2026年6月14日〜10月7日）</p><p class="hop-count__poll">世論調査ではなく、SNSの公開投稿を分類した結果です。</p><h3 class="hop-count__issues-title">論点と、そう語る理由</h3><p class="hop-count__hint">帯の区切りは理由の区分です。開くと、論点ごとの理由と件数を読めます。</p><ol class="hop-issues"><li class="hop-issue"><p class="hop-issue__head"><strong>安全管理・事故原因</strong><b>132<small>件</small></b></p><div class="hop-issue__track" aria-hidden="true"><div class="hop-issue__bar" style="--w:100.00%"><span style="--w:42.42%;--c:#6f5a47"></span><span style="--w:23.48%;--c:#8c7660"></span><span style="--w:13.64%;--c:#a8937c"></span><span style="--w:11.36%;--c:#c2b29e"></span><span style="--w:9.09%;--c:#d9cdbd"></span></div></div><p class="hop-issue__top"><span>最も多い理由</span>責任の所在・調査と説明を求める（56件）</p><details class="hop-reasons"><summary>理由5区分を開く</summary><ul><li><span class="hop-swatch" style="--c:#6f5a47" aria-hidden="true"></span>責任の所在・調査と説明を求める<b>56件</b></li><li><span class="hop-swatch" style="--c:#8c7660" aria-hidden="true"></span>学校の計画・引率・生徒への説明<b>31件</b></li><li><span class="hop-swatch" style="--c:#a8937c" aria-hidden="true"></span>船の選定・運航判断・契約<b>18件</b></li><li><span class="hop-swatch" style="--c:#c2b29e" aria-hidden="true"></span>再発防止と安全確認を優先する<b>15件</b></li><li><span class="hop-swatch" style="--c:#d9cdbd" aria-hidden="true"></span>活動の目的より安全を優先してほしい<b>12件</b></li></ul></details></li><li class="hop-issue"><p class="hop-issue__head"><strong>政治利用・基地問題</strong><b>127<small>件</small></b></p><div class="hop-issue__track" aria-hidden="true"><div class="hop-issue__bar" style="--w:96.21%"><span style="--w:35.43%;--c:#6f5a47"></span><span style="--w:29.92%;--c:#8c7660"></span><span style="--w:29.13%;--c:#a8937c"></span><span style="--w:5.51%;--c:#c2b29e"></span></div></div><p class="hop-issue__top"><span>最も多い理由</span>批判する側にも説明と反省を求める（45件）</p><details class="hop-reasons"><summary>理由4区分を開く</summary><ul><li><span class="hop-swatch" style="--c:#6f5a47" aria-hidden="true"></span>批判する側にも説明と反省を求める<b>45件</b></li><li><span class="hop-swatch" style="--c:#8c7660" aria-hidden="true"></span>事故対応を選挙や政治家の評価につなげる<b>38件</b></li><li><span class="hop-swatch" style="--c:#a8937c" aria-hidden="true"></span>活動団体・政党・教育機関への批判と関係<b>37件</b></li><li><span class="hop-swatch" style="--c:#c2b29e" aria-hidden="true"></span>基地政策・反対運動の是非<b>7件</b></li></ul></details></li><li class="hop-issue"><p class="hop-issue__head"><strong>報道・行政対応</strong><b>97<small>件</small></b></p><div class="hop-issue__track" aria-hidden="true"><div class="hop-issue__bar" style="--w:73.48%"><span style="--w:57.73%;--c:#6f5a47"></span><span style="--w:38.14%;--c:#8c7660"></span><span style="--w:4.12%;--c:#a8937c"></span></div></div><p class="hop-issue__top"><span>最も多い理由</span>報道の量・取り上げ方への疑問（56件）</p><details class="hop-reasons"><summary>理由3区分を開く</summary><ul><li><span class="hop-swatch" style="--c:#6f5a47" aria-hidden="true"></span>報道の量・取り上げ方への疑問<b>56件</b></li><li><span class="hop-swatch" style="--c:#8c7660" aria-hidden="true"></span>行政・政党の説明と調査<b>37件</b></li><li><span class="hop-swatch" style="--c:#a8937c" aria-hidden="true"></span>会見や遺族の記録への受け止め<b>4件</b></li></ul></details></li><li class="hop-issue"><p class="hop-issue__head"><strong>追悼・被害者の尊厳</strong><b>66<small>件</small></b></p><div class="hop-issue__track" aria-hidden="true"><div class="hop-issue__bar" style="--w:50.00%"><span style="--w:48.48%;--c:#6f5a47"></span><span style="--w:22.73%;--c:#8c7660"></span><span style="--w:16.67%;--c:#a8937c"></span><span style="--w:12.12%;--c:#c2b29e"></span></div></div><p class="hop-issue__top"><span>最も多い理由</span>犠牲者への配慮を先にしてほしい（32件）</p><details class="hop-reasons"><summary>理由4区分を開く</summary><ul><li><span class="hop-swatch" style="--c:#6f5a47" aria-hidden="true"></span>犠牲者への配慮を先にしてほしい<b>32件</b></li><li><span class="hop-swatch" style="--c:#8c7660" aria-hidden="true"></span>追悼や謝罪の時期・場所・対応<b>15件</b></li><li><span class="hop-swatch" style="--c:#a8937c" aria-hidden="true"></span>慰霊の場と政治的抗議を分ける<b>11件</b></li><li><span class="hop-swatch" style="--c:#c2b29e" aria-hidden="true"></span>命を悼み、遺族や生徒の立場を考える<b>8件</b></li></ul></details></li><li class="hop-issue"><p class="hop-issue__head"><strong>政治的中立性</strong><b>48<small>件</small></b></p><div class="hop-issue__track" aria-hidden="true"><div class="hop-issue__bar" style="--w:36.36%"><span style="--w:45.83%;--c:#6f5a47"></span><span style="--w:16.67%;--c:#8c7660"></span><span style="--w:14.58%;--c:#a8937c"></span><span style="--w:14.58%;--c:#c2b29e"></span><span style="--w:8.33%;--c:#d9cdbd"></span></div></div><p class="hop-issue__top"><span>最も多い理由</span>政治活動と学校教育の境界（22件）</p><details class="hop-reasons"><summary>理由5区分を開く</summary><ul><li><span class="hop-swatch" style="--c:#6f5a47" aria-hidden="true"></span>政治活動と学校教育の境界<b>22件</b></li><li><span class="hop-swatch" style="--c:#8c7660" aria-hidden="true"></span>比較する場面でも同じ基準を求める<b>8件</b></li><li><span class="hop-swatch" style="--c:#a8937c" aria-hidden="true"></span>教組・宗教団体と教育の関係<b>7件</b></li><li><span class="hop-swatch" style="--c:#c2b29e" aria-hidden="true"></span>教育論の前に学校と運動の責任を問う<b>7件</b></li><li><span class="hop-swatch" style="--c:#d9cdbd" aria-hidden="true"></span>国の教育内容への介入を疑問視する<b>4件</b></li></ul></details></li><li class="hop-issue"><p class="hop-issue__head"><strong>平和教育の萎縮</strong><b>25<small>件</small></b></p><div class="hop-issue__track" aria-hidden="true"><div class="hop-issue__bar" style="--w:18.94%"><span style="--w:44.00%;--c:#6f5a47"></span><span style="--w:28.00%;--c:#8c7660"></span><span style="--w:24.00%;--c:#a8937c"></span><span style="--w:4.00%;--c:#c2b29e"></span></div></div><p class="hop-issue__top"><span>最も多い理由</span>危険な活動・一面的な教育を見直す（11件）</p><details class="hop-reasons"><summary>理由4区分を開く</summary><ul><li><span class="hop-swatch" style="--c:#6f5a47" aria-hidden="true"></span>危険な活動・一面的な教育を見直す<b>11件</b></li><li><span class="hop-swatch" style="--c:#8c7660" aria-hidden="true"></span>学ぶ機会・権利と生徒の自主性<b>7件</b></li><li><span class="hop-swatch" style="--c:#a8937c" aria-hidden="true"></span>教育の自由と国家の介入を考える<b>6件</b></li><li><span class="hop-swatch" style="--c:#c2b29e" aria-hidden="true"></span>政治家に教育のあり方を問う<b>1件</b></li></ul></details></li></ol><p class="hop-count__note">理由の区分は、AIが投稿の本文を1件ずつ読んで分けました。</p><p class="hop-count__stance">文部科学省の判断を支持する意見は28件、反発する意見は19件です。90%（445件）は賛否を示さず、事故や報道など別の問題を語る「論点を切り分ける」に分類しました。</p><p class="hop-count__updated">最終更新 2026年10月8日・次回の更新予定 10月22日</p></section>
 </div>
 <section class="hop-faq" aria-labelledby="hop-faq-title"><h2 id="hop-faq-title">ほかによく調べられている疑問</h2><details class="hop-faq__item"><summary>文部科学省の見解では、何が指摘された？</summary><p>事前の下見をしていなかったこと、当日の波浪注意報を確認していなかったことなど、学校の安全管理が指摘されました。個人の刑事責任を判断したものではありません。<a class="hop-src" href="https://www.mext.go.jp/a_menu/shotou/seitoshidou/1302902_00005.htm" target="_blank" rel="noopener noreferrer">文部科学省の見解</a></p></details><details class="hop-faq__item"><summary>引率の教員は船に乗っていた？</summary><p>文部科学省の見解には、転覆時に引率教員は同行していなかったと書かれています。2隻の船に対し、配置された引率教員は1名でした。<a class="hop-src" href="https://www.mext.go.jp/a_menu/shotou/seitoshidou/1302902_00005.htm" target="_blank" rel="noopener noreferrer">文部科学省の見解</a></p></details><details class="hop-faq__item"><summary>無登録の運送とは何のこと？</summary><p>人を運ぶ事業として行う場合は、海上運送法の事業登録が必要です。国土交通省は、学校の依頼で繰り返し生徒らを運び、謝礼を受けていたことから、登録を受けずに運送したと判断しました。事故原因の認定とは別の手続きです。<a class="hop-src" href="https://www.mlit.go.jp/report/press/kaiji03_hh_000224.html" target="_blank" rel="noopener noreferrer">国土交通省の発表</a></p></details><details class="hop-faq__item"><summary>ダンプカーと警備員の事故とは別？</summary><p>別の事故です。このページは2026年3月の辺野古沖の船舶転覆事故を扱い、2024年に安和桟橋付近で起きた事故とは混同しません。</p></details></section>

diff --git a/quality/prototypes/henoko-student-accident-opening/opening.css b/quality/prototypes/henoko-student-accident-opening/opening.css
@@ -74,6 +74,10 @@ a:focus-visible, summary:focus-visible { outline: 2px solid var(--fact); outline
 .hop-event__text { margin: 2px 0 0; font-size: 13.5px; color: var(--ink); }
 .hop-src { margin-left: 6px; font-size: 12.5px; white-space: nowrap; }
 
+.hop-more-events { margin: 0 0 10px; }
+.hop-more-events > summary { cursor: pointer; padding: 8px 0 8px 5.6em; font-size: 14px; font-weight: 600; color: var(--fact); }
+.hop-more-events[open] > summary { padding-bottom: 12px; }
+.hop-events--rest { padding-top: 4px; }
 .hop-pending { margin-top: 6px; padding: 14px 16px 6px; border: 1px dashed var(--pending); border-radius: 6px; }
 .hop-pending h3 { display: flex; align-items: center; gap: 6px; margin: 0 0 10px; font-size: 14.5px; color: var(--pending); }
 .hop-pending .hop-events::before { background: none; border-left: 1px dashed var(--pending); }
@@ -138,5 +142,6 @@ a:focus-visible, summary:focus-visible { outline: 2px solid var(--fact); outline
   .hop-event__head strong { font-size: 14.5px; }
   .hop-src { white-space: normal; }
   .hop-pending { padding: 12px 10px 4px; }
+  .hop-more-events > summary { padding-left: 5.5em; }
   .hop-count__num strong { font-size: 40px; }
 }

diff --git a/scripts/henoko_opening.py b/scripts/henoko_opening.py
@@ -173,6 +173,14 @@ def render_timeline(config: dict) -> str:
             f'<strong>{esc(e["title"])}</strong></p>'
             f'<p class="hop-event__text">{esc(e["text"])}{link(e.get("source"))}</p></div></li>'
         )
+    head_n = tl["open_count"]
+    events_html = f'<ol class="hop-events">{"".join(items[:head_n])}</ol>'
+    if len(items) > head_n:
+        label = tl["more_label_template"].format(n=len(items) - head_n)
+        events_html += (
+            f'<details class="hop-more-events"><summary>{esc(label)}</summary>'
+            f'<ol class="hop-events hop-events--rest">{"".join(items[head_n:])}</ol></details>'
+        )
     pending = "".join(
         f'<li class="hop-event hop-event--pending"><span class="hop-when-pending">未公表</span>'
         f'<div class="hop-event__body"><p class="hop-event__head"><span class="hop-actor">{esc(p["actor"])}</span>'
@@ -185,7 +193,7 @@ def render_timeline(config: dict) -> str:
         f'<section class="hop-timeline hop-zone--fact" id="hop-timeline" aria-labelledby="hop-timeline-title">'
         f'<header class="hop-panel__head"><p class="hop-kind">{icon("fact")}{esc(tl["kind_label"])}</p>'
         f'<h2 id="hop-timeline-title">{esc(tl["title"])}<small>{year}年</small></h2></header>'
-        f'<ol class="hop-events">{"".join(items)}</ol>'
+        f'{events_html}'
         f'<div class="hop-pending" id="hop-pending"><h3>{icon("pending")}{esc(tl["pending_title"])}</h3>'
         f'<ol class="hop-events">{pending}</ol><p class="hop-pending__note">{esc(pending_note)}</p></div>'
         f'<p class="hop-panel__note">{esc(tl["note"])}</p>'
